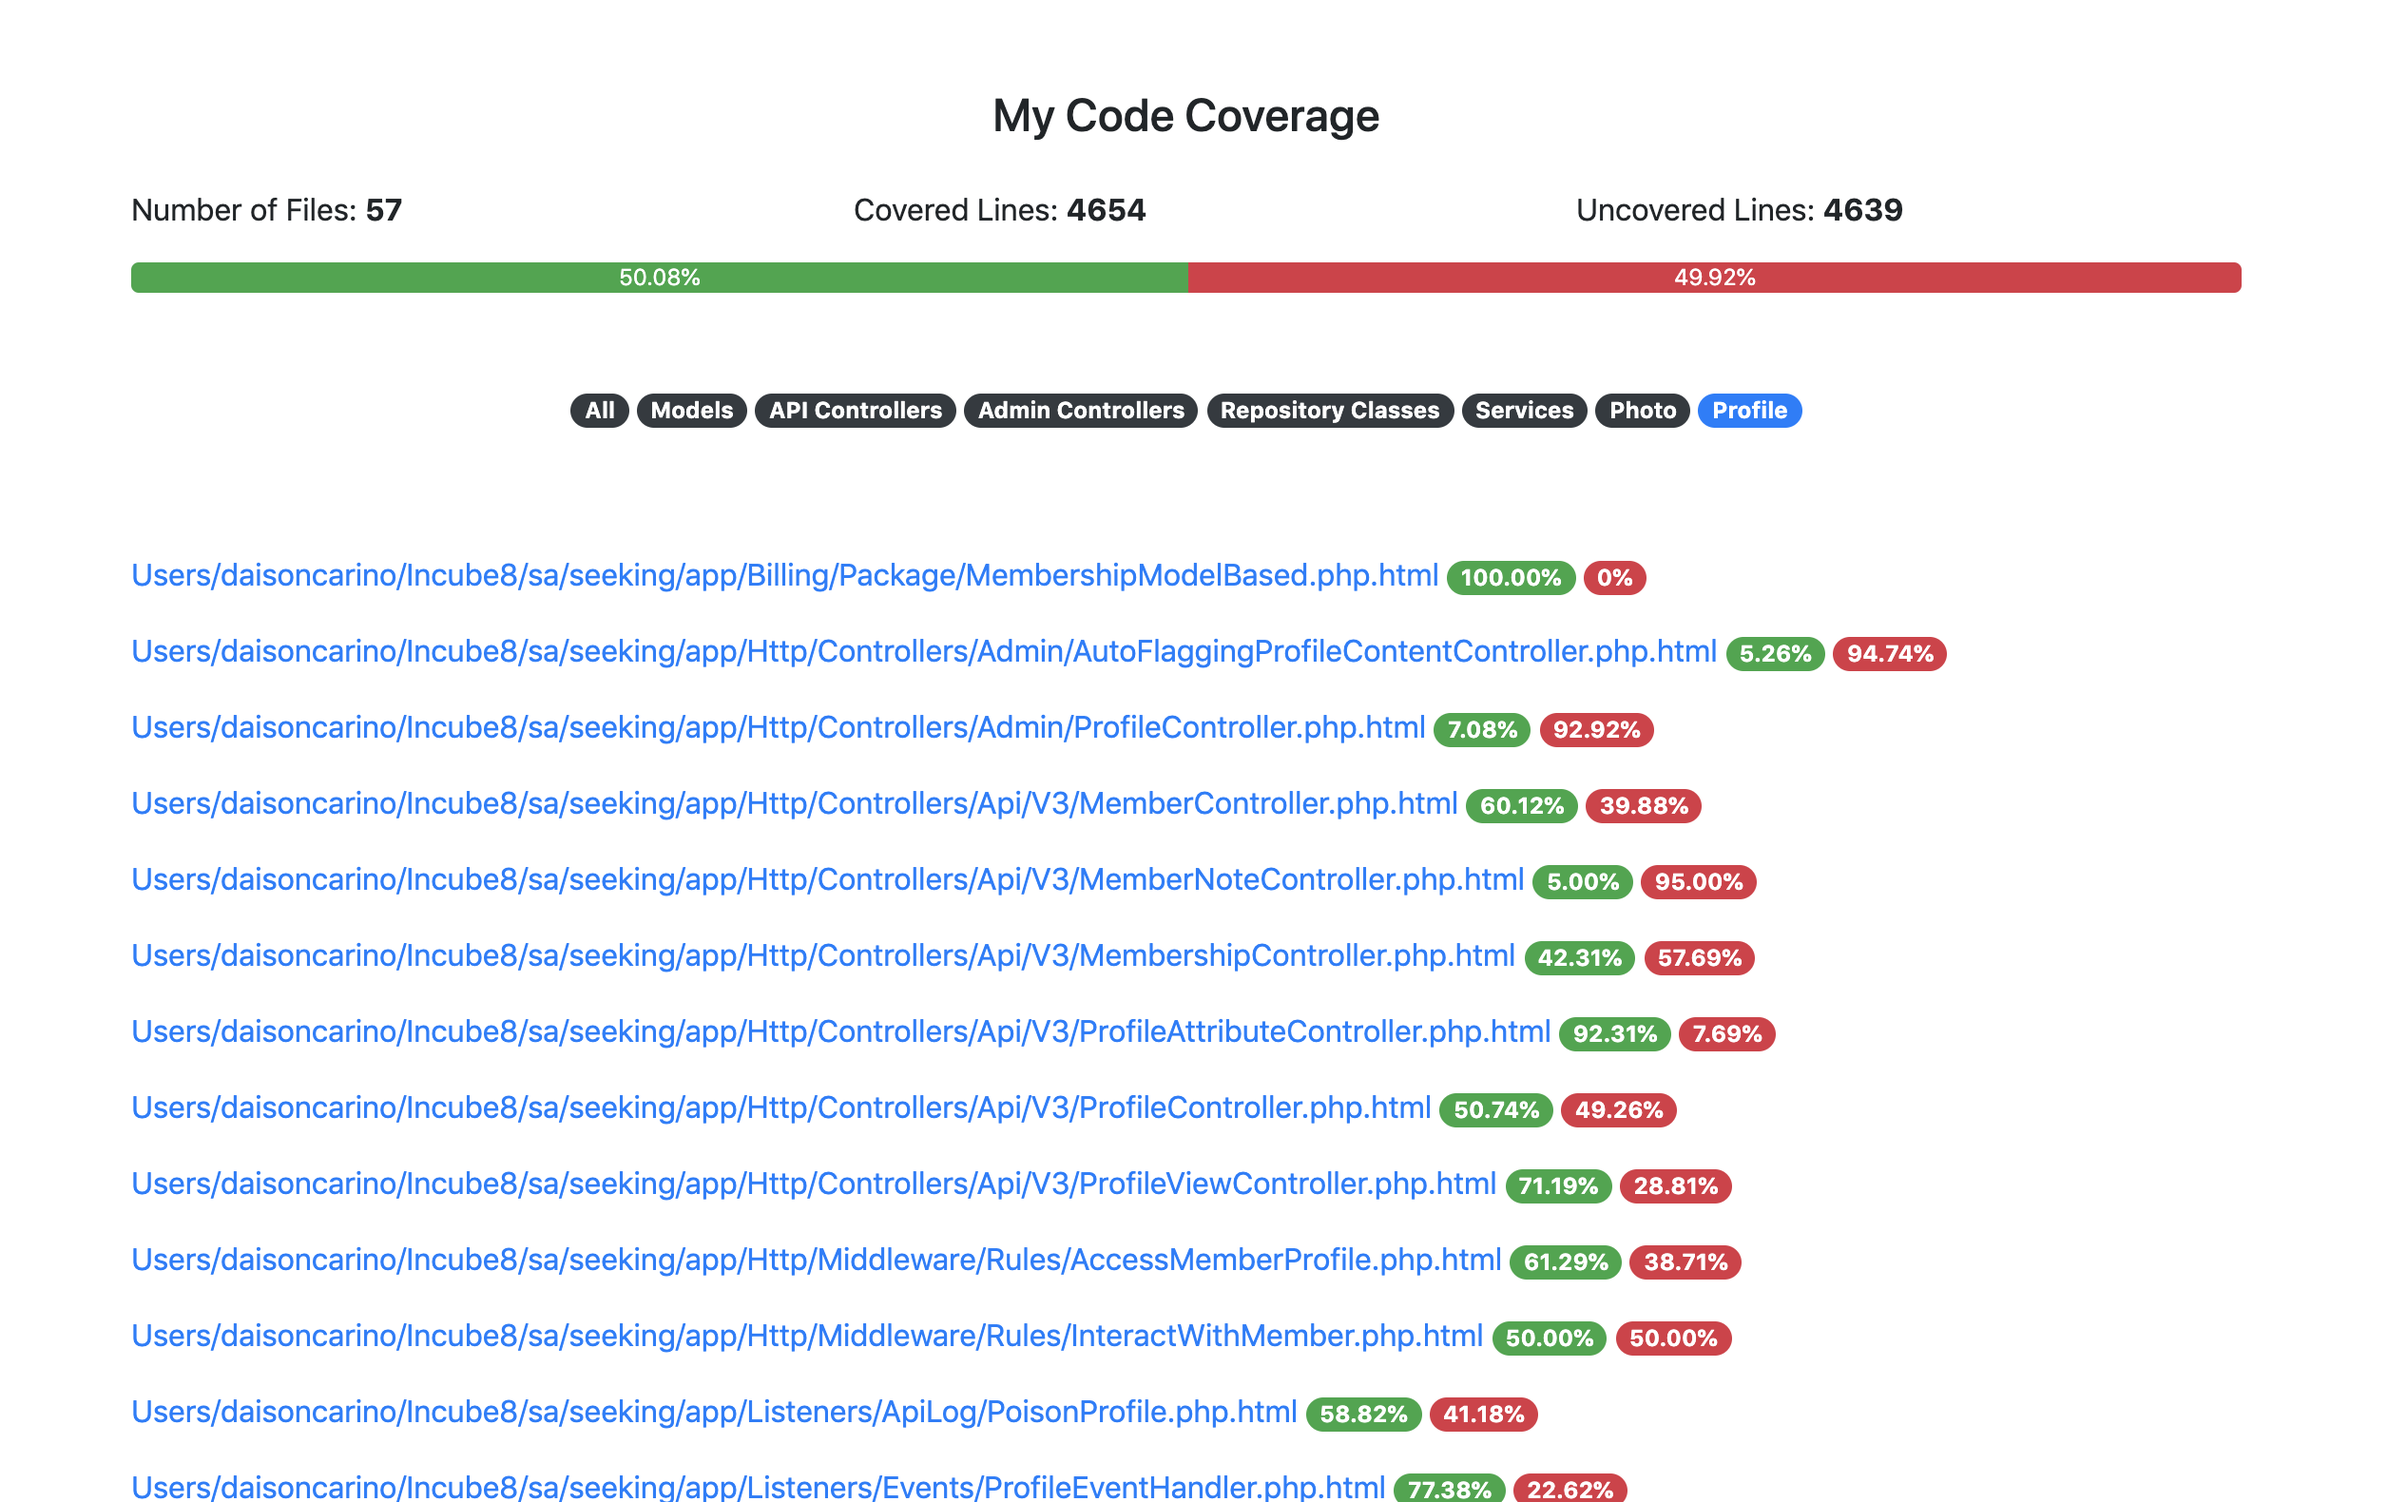
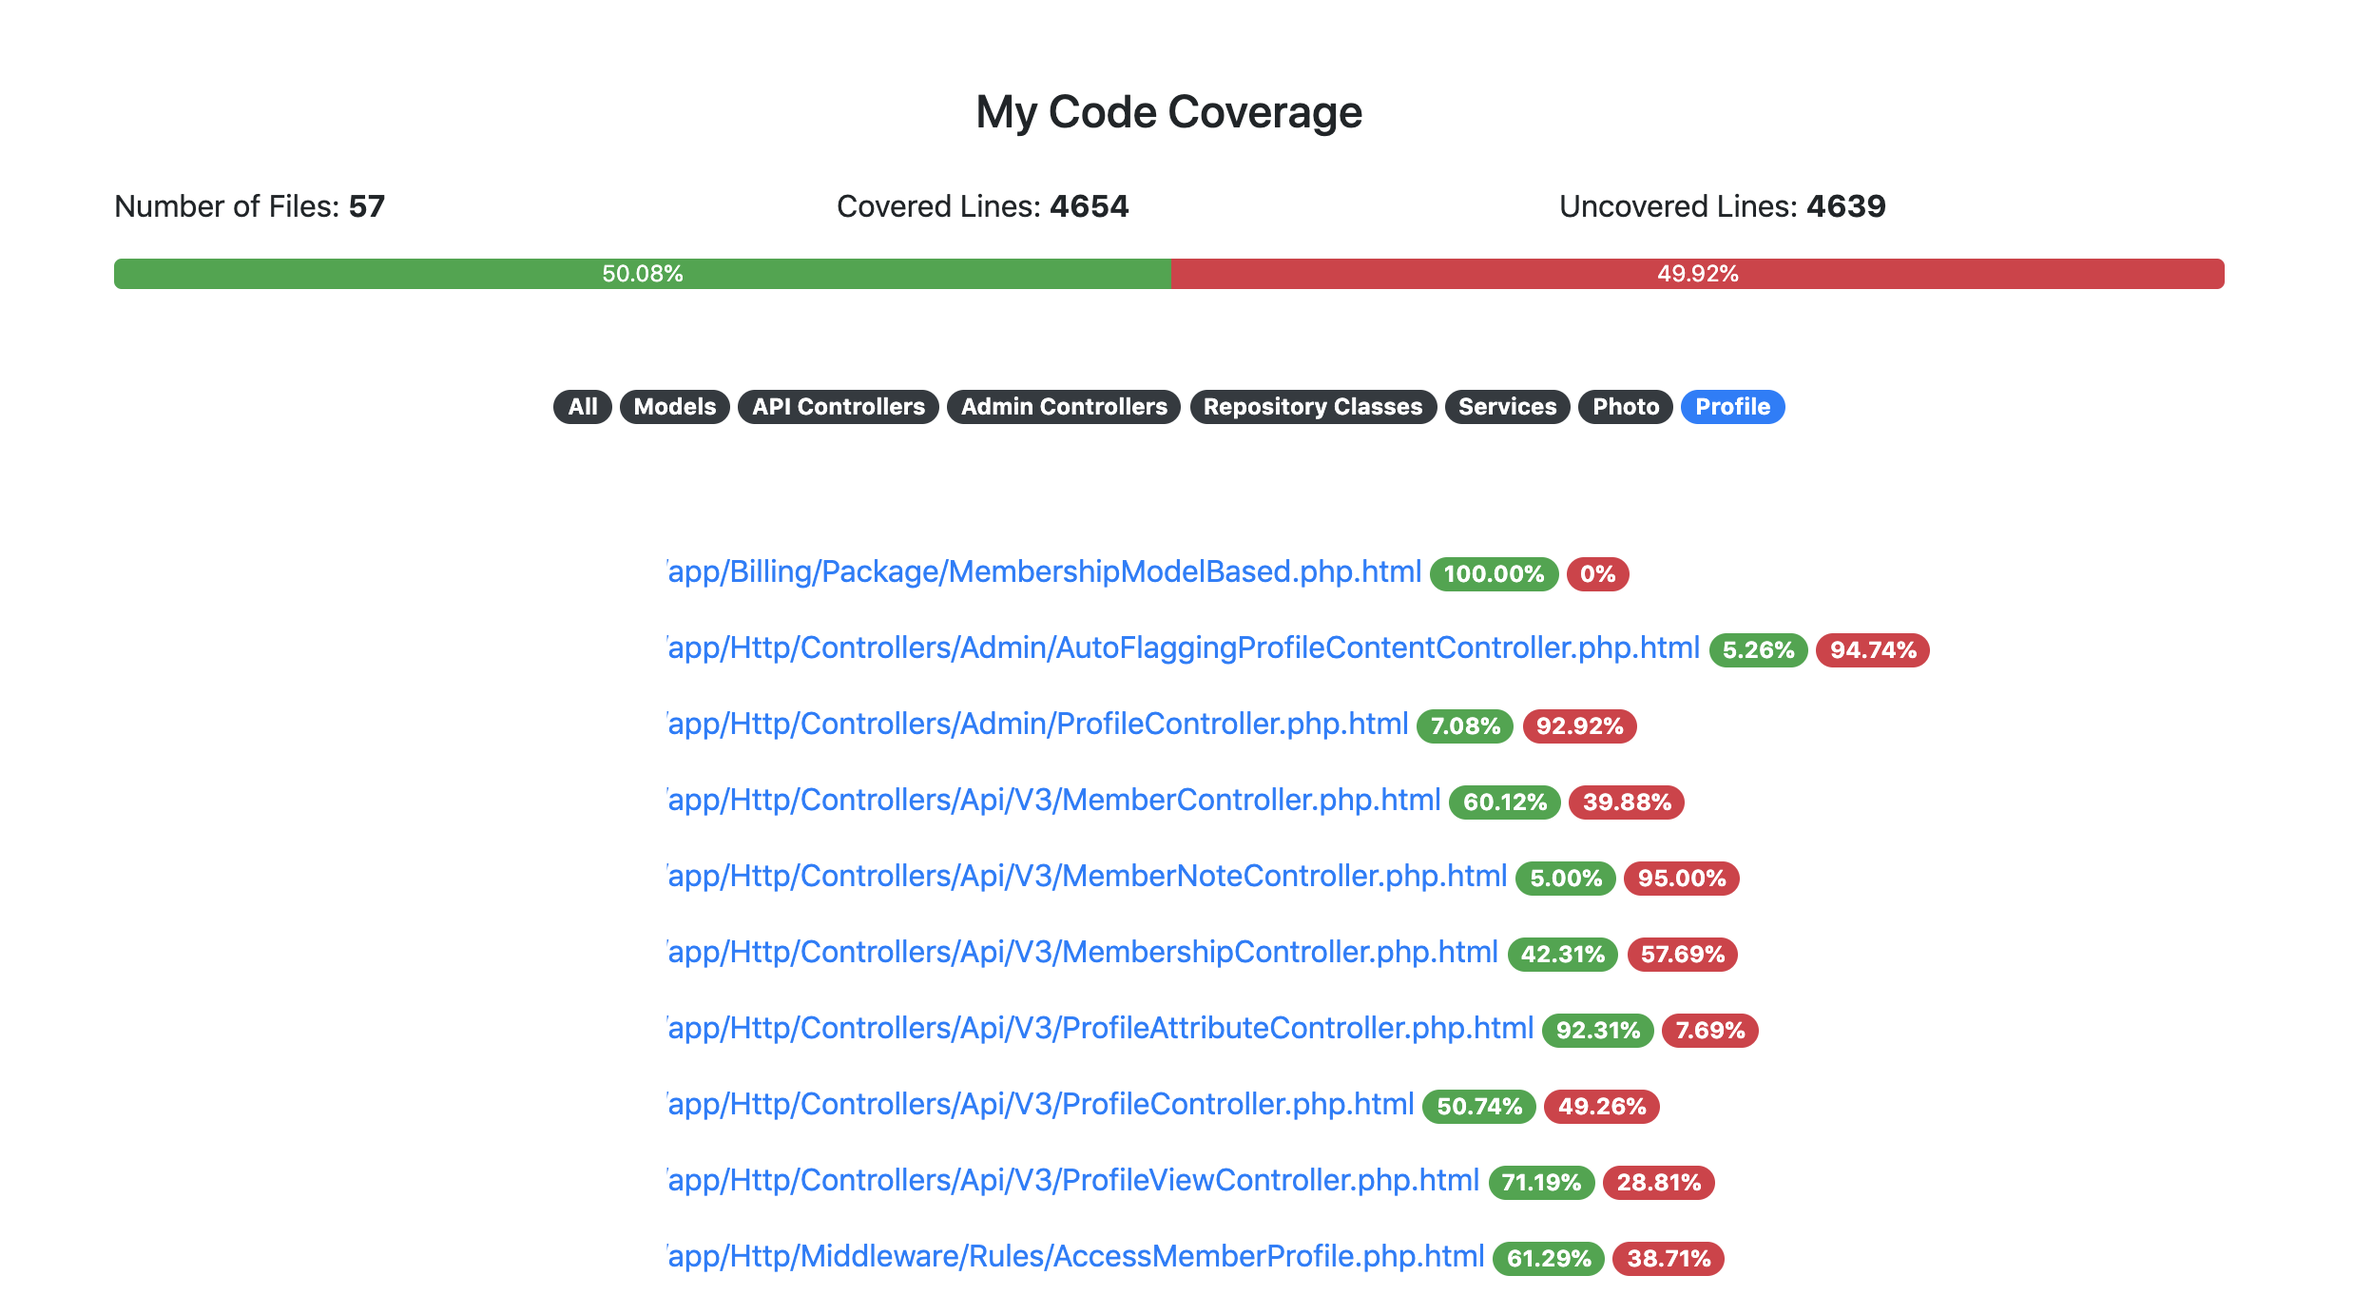
Add sample image

Changed region(s): [[0.0625, 0.4009, 0.8125, 1.0], [0.0312, 0.0617, 0.9375, 0.3392], [0.0625, 0.37, 0.6875, 0.4009]]

diff --git a/README.md b/README.md
@@ -1,3 +1,5 @@
+<img src="https://raw.githubusercontent.com/daison12006013/clover-coverage-to-html/master/sample.png">
+
 # Clover XML to HTML
 
 Parses a clover xml and maps the coverage based on the relative path on your local and will calculate and creates a static website that shows the coverage.
@@ -40,6 +42,14 @@ return [
             'catch( |)\((.*)\)',
             '\}( |)else( |)\{',
         ],
+    ],
+    'badges' => [
+        'Repositories' => 'Repositories/', // single
+        'Controllers'  => ['Controllers/Api', 'Controllers/Http'], // grouping
+
+        // or regex sample
+        'User'         => '(.*)User(.*)',
+        'Payment       => ['/Payment', 'Payment(Controller|Repository)'],
     ],
 ];
 ```
